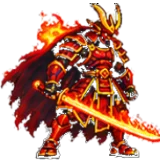
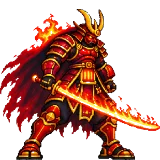
Regenerate kilnheart animations

diff --git a/docs/prompts/QUEUE-LOG.md b/docs/prompts/QUEUE-LOG.md
@@ -13,3 +13,12 @@
 14:33 pitz committed: PASS — baseline escalation step 1 (failing rule first and bolded)
 14:38 glass-warden hurt attempt 1 → PASS
 14:45 glass-warden defeat attempt 1 → PASS
+14:58 kilnheart sheet attempt 1 → PASS
+15:05 kilnheart idle attempt 1 → PASS (gate reports incomplete set as hero; missing files only)
+15:16 kilnheart approach attempt 1 → PASS
+15:24 kilnheart attack attempt 1 → FAIL: frames 1–3 feet are 57 px off the row's baseline — identical bottom-centre anchor in all 9 cells
+15:36 kilnheart attack attempt 2 → PASS
+15:47 kilnheart special attempt 1 → FAIL: figure is larger than in the other files (694 vs 562 px tall) — one character, one size, in every file
+15:58 kilnheart special attempt 2 → PASS
+16:10 kilnheart hurt attempt 1 → PASS
+16:22 kilnheart defeat attempt 1 → PASS
